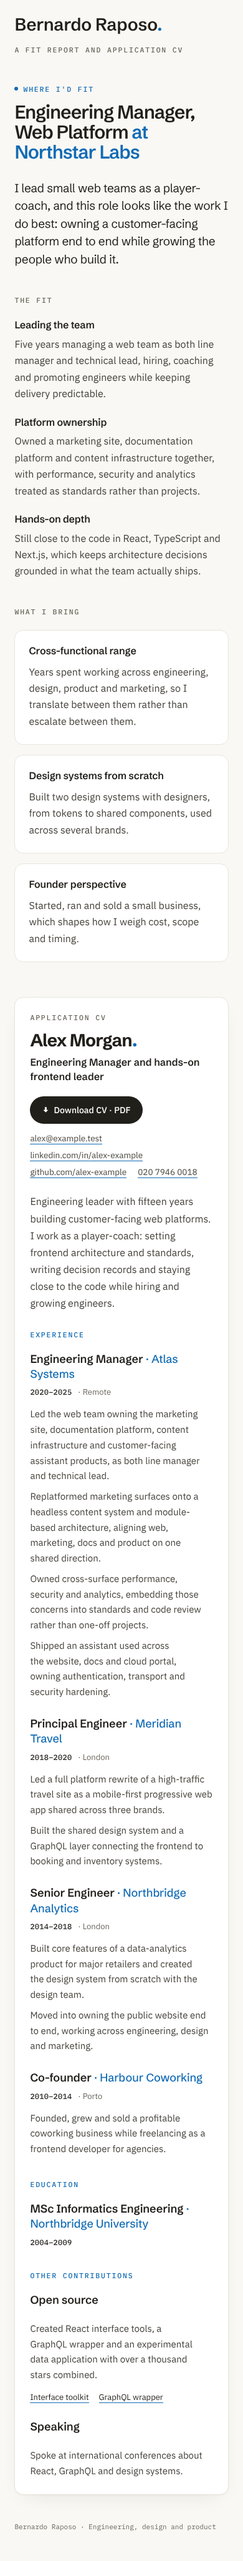
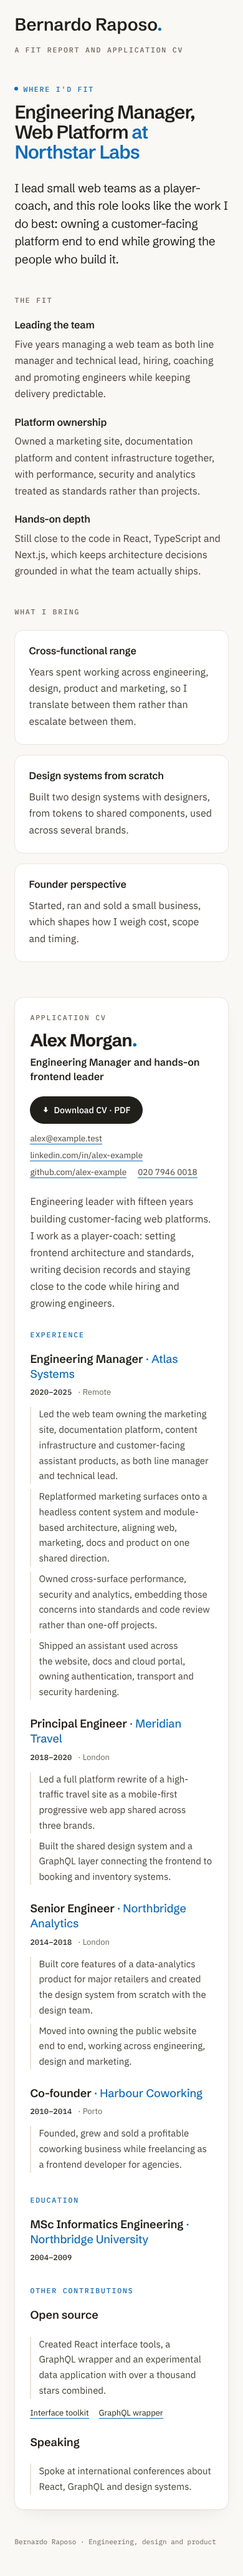
Mark CV evidence lines with a light left border
Drop the dot before CV section labels and indent each evidence paragraph
behind a light 2px left border, which acts as the list marker in the PDF,
the CV reader and the fit page CV.

Claude-Session: https://claude.ai/code/session_01GAwkU9J7SXUxrdqUJrLukE

Changed region(s): [[0.0615, 0.0312, 0.8308, 0.9673], [0.8308, 0.312, 0.8615, 0.3432]]

diff --git a/lib/application-cv-render.js b/lib/application-cv-render.js
@@ -56,13 +56,12 @@ export async function renderApplicationCvHtml(content,{minBodyPx=13,showDownload
   a{color:inherit;text-decoration:none;border-bottom:1px solid var(--accent)}
   .intro{margin:8px 0 0;max-width:180mm;color:var(--body)}
   section{margin-top:3mm;background:#fff;border:1px solid var(--line);border-radius:10px;padding:3.5mm 4.5mm 4mm}
-  h2{display:flex;align-items:center;gap:8px;font:500 9.5px/1.3 PlexMono,monospace;letter-spacing:.16em;text-transform:uppercase;color:var(--accent);margin:0 0 7px}
-  h2::before{content:"";width:5px;height:5px;border-radius:50%;background:currentColor}
+  h2{font:500 9.5px/1.3 PlexMono,monospace;letter-spacing:.16em;text-transform:uppercase;color:var(--accent);margin:0 0 7px}
   .entry{margin:0 0 10px;break-inside:avoid}.entry:last-child{margin-bottom:0}.entry-head{display:flex;justify-content:space-between;gap:10px;align-items:baseline}
   .entry-title{font:600 14px/1.3 Schibsted,Plex,sans-serif;letter-spacing:-.01em}.entry-title strong{font-weight:600}.entry-org{color:var(--accent)}
   .entry-when{font:500 9.5px/1.3 PlexMono,monospace;letter-spacing:.02em;white-space:nowrap;color:var(--sub);text-transform:uppercase}
-  .entry-detail{margin:3px 0 0;break-inside:avoid;color:var(--body)}.entry-head+.entry-detail{margin-top:4px}
-  .entry-links{display:flex;flex-wrap:wrap;gap:3px 12px;margin-top:4px;font-size:11px}
+  .entry-detail{margin:3px 0 0;padding-left:8px;border-left:2px solid #e4ded1;break-inside:avoid;color:var(--body)}.entry-head+.entry-detail{margin-top:4px}
+  .entry-links{display:flex;flex-wrap:wrap;gap:3px 12px;margin-top:4px;padding-left:10px;font-size:11px}
   footer{margin-top:auto;padding:3.5mm 4.5mm 0;font:500 9.5px/1.4 PlexMono,monospace;letter-spacing:.02em;color:var(--sub)}
   footer a{color:var(--accent);border-bottom-color:currentColor}
   .download{display:none}

diff --git a/lib/templates/application.html b/lib/templates/application.html
@@ -48,7 +48,7 @@
   .role h3{font:600 18px/1.35 var(--display);margin:0;letter-spacing:-.005em}
   .role h3 .company{font-weight:500;color:var(--accent)}
   .entry-details{display:grid;gap:8px;margin:10px 0 0}
-  .entry-detail{font:15px/1.65 var(--sans);color:var(--body);margin:0;max-width:72ch;text-wrap:pretty}
+  .entry-detail{font:15px/1.65 var(--sans);color:var(--body);margin:0;max-width:72ch;text-wrap:pretty;padding-left:12px;border-left:2px solid var(--line)}
   .entry-links{display:flex;flex-wrap:wrap;gap:8px 16px;margin-top:10px;font-size:13px}
   .footer{margin:44px 0 48px;font:11px var(--mono);color:var(--sub)}
   @media(max-width:700px){.row{grid-template-columns:1fr;gap:7px}.rows{gap:22px}.role{grid-template-columns:1fr}.role-meta{order:2;flex-direction:row;flex-wrap:wrap;gap:0 10px;padding:4px 0 0}.role-meta .place::before{content:"· ";color:var(--sub)}.role-body{display:contents}.role h3{order:1}.entry-details,.entry-links{order:3}.role+.role{margin-top:26px}.cv{border-radius:14px}.cv-title{flex-direction:column}}

diff --git a/DESIGN.md b/DESIGN.md
@@ -325,8 +325,8 @@ The shared radius is 0.75rem. At the default 16px root size, the existing Tailwi
 - Legacy/shared fit reports at `/` retain their compact opening, CV download and public contact details before the pitch. The new personalised `/fit/:publicId` application page flows from the fit introduction and pitch through its supplied categories and “What I bring” differentiators to the Application CV. Keep a single “Download CV · PDF” action beside the Application CV on that page; omit a duplicate report-level download action and any report closing text before the CV. Render only evidence sections the report contains; an empty differentiators array does not create an empty heading. Preserve legacy report content and link tracking. On the personalised page, use whitespace and typographic hierarchy instead of repeated horizontal rules; separate each role, project and speaking entry with spacing. Keep experience evidence as distinct paragraphs without visible bullet markers. Preserve available public contact links, including phone when supplied, with their normal link affordances and no inserted separator dots.
 - The fit report presents three categories under “Where I land” and three differentiators under “What sets me apart” for the current prompt. Keep the experience numbers, beside the text on desktop and above it on mobile. Both sections share title typography (16–21px, weight 600, line-height 1.3) and body typography (16px, line-height 1.65, body2 colour). Render all supplied entries so older reports keep their content.
 - The master CV and standalone cover letter use the public identity from the Sanity CV document. A role-specific customised CV is private and available only through authenticated admin actions until explicitly published. Candidate profile details are private and must never be projected wholesale into a public page.
-- Application CVs include every major career role and select the strongest truthful evidence for the target job description within each role; relevance guides emphasis, not which major roles disappear. Use “Other contributions” for compact independent-work, open-source and speaking entries. Group related open-source packages into one supported overview with labelled, approved project links; keep speaking distinct. Within career entries, retain supported business, leadership and organisational experience alongside technical delivery. Describe company growth and platform scale as context unless the evidence explicitly credits a candidate outcome. Apply the same clean hierarchy to the downloadable PDF: no section/footer divider rules or bullet markers, left-aligned evidence paragraphs, small paragraph gaps, larger entry gaps and the largest gaps between sections. Preserve readable type and A4 overflow checks instead of shrinking the text to compensate for spacing.
-- Public documents share one accent (`oklch(0.52 0.14 250)`, `#1f6fb2` in the bundled-font PDF) and the brand mark: the candidate name is followed by an accent full stop on the fit page CV, application/general CV and cover letter. On the personalised fit page, “What I bring” differentiators sit in white cards on the warm paper background (one column on mobile), and the Application CV sits on its own white sheet so the downloadable document reads as distinct from the pitch. Its roles use a left meta column for dates and location beside the title, “· company” and evidence; on mobile the meta line moves under the title. The Download CV · PDF action is a filled ink pill. The A4 CV uses the fit page's visual language: the whole page is the warm paper colour (`#faf8f4`), the name, Schibsted headline, contacts and summary sit directly on the paper, and each CV section (Experience, Education, Other contributions) is a white box with a 1px `#e6e1d6` border and 10px radius. Do not add a coloured side border to the header. Section labels are accent IBM Plex Mono capitals led by a small accent dot; entry headings set “Title” in Schibsted with “· Company” in the accent, and “Location · Dates” in small Plex Mono on the right; the fit/public link sits on the paper at the foot of the page. The renderer embeds Plex Sans 400/600, Schibsted Grotesk 600/700 and Plex Mono 500 from `lib/assets/cv-fonts`. Do not use positioned elements in the PDF header: they change the PDF text order that validation checks. On the fit page CV, company names also use the accent and dates use Plex Mono. The cover letter uses wider A4 margins and 13.5px body text with spacing (not a divider rule) between header and letter; a maximum-length letter must still fit one page.
+- Application CVs include every major career role and select the strongest truthful evidence for the target job description within each role; relevance guides emphasis, not which major roles disappear. Use “Other contributions” for compact independent-work, open-source and speaking entries. Group related open-source packages into one supported overview with labelled, approved project links; keep speaking distinct. Within career entries, retain supported business, leadership and organisational experience alongside technical delivery. Describe company growth and platform scale as context unless the evidence explicitly credits a candidate outcome. Apply the same clean hierarchy to the downloadable PDF: no section/footer divider rules or bullet markers; each evidence paragraph is indented with a light 2px left border that works as the list marker (also on the fit page CV), small paragraph gaps, larger entry gaps and the largest gaps between sections. Preserve readable type and A4 overflow checks instead of shrinking the text to compensate for spacing.
+- Public documents share one accent (`oklch(0.52 0.14 250)`, `#1f6fb2` in the bundled-font PDF) and the brand mark: the candidate name is followed by an accent full stop on the fit page CV, application/general CV and cover letter. On the personalised fit page, “What I bring” differentiators sit in white cards on the warm paper background (one column on mobile), and the Application CV sits on its own white sheet so the downloadable document reads as distinct from the pitch. Its roles use a left meta column for dates and location beside the title, “· company” and evidence; on mobile the meta line moves under the title. The Download CV · PDF action is a filled ink pill. The A4 CV uses the fit page's visual language: the whole page is the warm paper colour (`#faf8f4`), the name, Schibsted headline, contacts and summary sit directly on the paper, and each CV section (Experience, Education, Other contributions) is a white box with a 1px `#e6e1d6` border and 10px radius. Do not add a coloured side border to the header. Section labels are plain accent IBM Plex Mono capitals with no leading marker; entry headings set “Title” in Schibsted with “· Company” in the accent, and “Location · Dates” in small Plex Mono on the right; the fit/public link sits on the paper at the foot of the page. The renderer embeds Plex Sans 400/600, Schibsted Grotesk 600/700 and Plex Mono 500 from `lib/assets/cv-fonts`. Do not use positioned elements in the PDF header: they change the PDF text order that validation checks. On the fit page CV, company names also use the accent and dates use Plex Mono. The cover letter uses wider A4 margins and 13.5px body text with spacing (not a divider rule) between header and letter; a maximum-length letter must still fit one page.
 - Document readers reflow at mobile widths while print retains A4 geometry. Letters may contain older, longer content; overflow warnings must remain visible and old saved paragraphs must not be silently cut to satisfy new generation budgets.
 
 - For visual changes, inspect the affected screen in the browser at desktop and mobile widths; include 1280, 768, 390 and 360 px where relevant. Exercise realistic long names, missing fields, scrolling, empty/stale/running/failed states and keyboard interactions.
